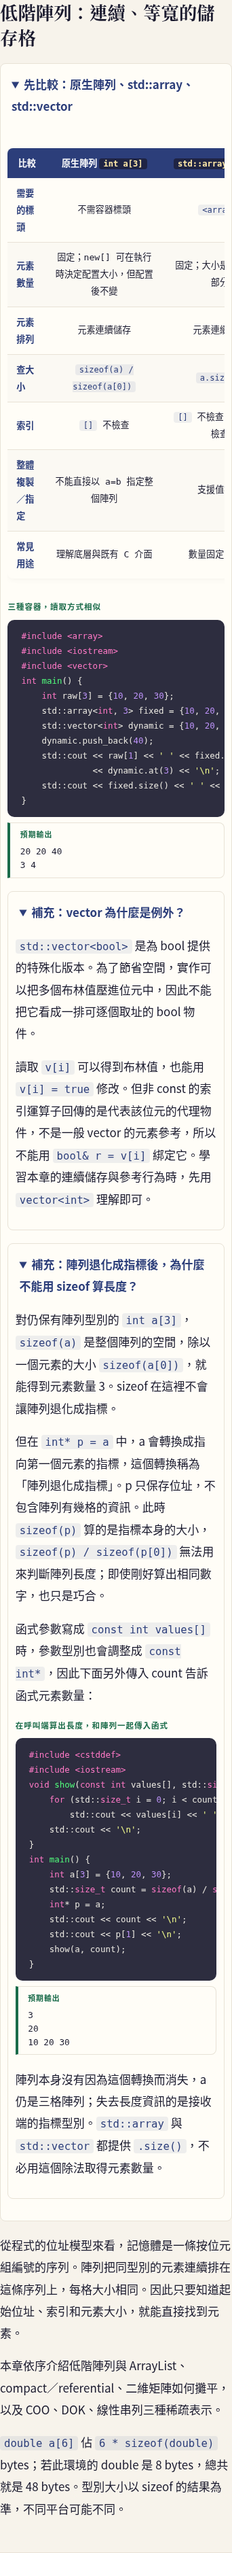
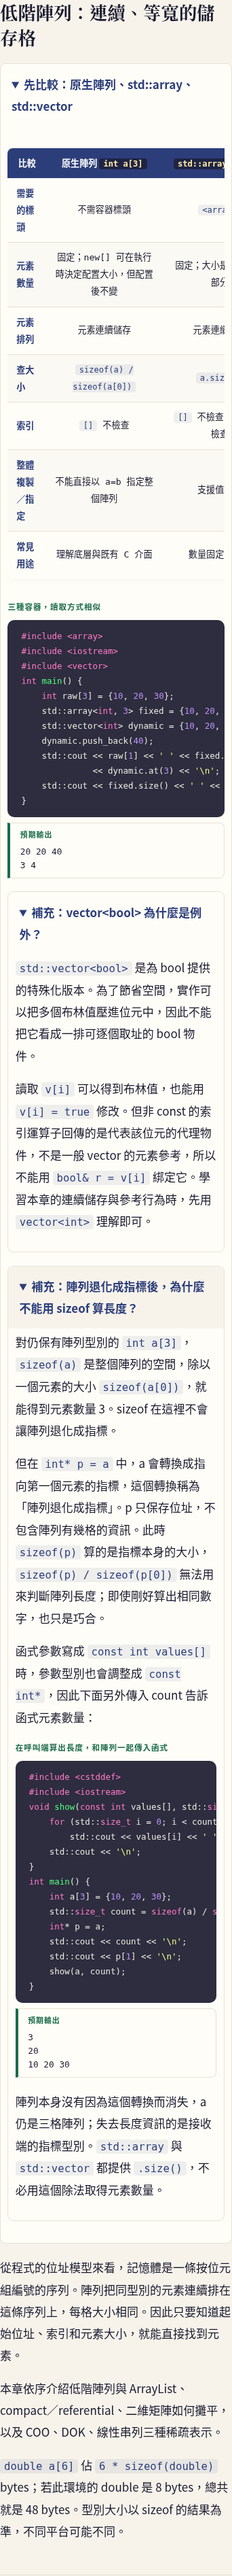
Render template brackets literally in collapsible titles

diff --git a/arrays.html b/arrays.html
@@ -545,7 +545,7 @@ footer{text-align:center;padding:2rem;font-size:.85rem;color:var(--muted);border
 <span class="line" data-l="11">    std::cout &lt;&lt; fixed.size() &lt;&lt; <span class="str">'</span><span class="str"> </span><span class="str">'</span> &lt;&lt; dynamic.size() &lt;&lt; <span class="str">'</span><span class="str">\n</span><span class="str">'</span>;</span>
 <span class="line" data-l="12">}</span></div><div class="expected-out"><span class="eo-tag">預期輸出</span><pre>20 20 40
 3 4
-</pre></div></div><details class="chapter-extra"><summary>補充：vector<bool> 為什麼是例外？</summary><div class="extra-body"><p><code>std::vector&lt;bool&gt;</code> 是為 bool 提供的特殊化版本。為了節省空間，實作可以把多個布林值壓進位元中，因此不能把它看成一排可逐個取址的 bool 物件。</p>
+</pre></div></div><details class="chapter-extra"><summary>補充：vector&lt;bool&gt; 為什麼是例外？</summary><div class="extra-body"><p><code>std::vector&lt;bool&gt;</code> 是為 bool 提供的特殊化版本。為了節省空間，實作可以把多個布林值壓進位元中，因此不能把它看成一排可逐個取址的 bool 物件。</p>
 <p>讀取 <code>v[i]</code> 可以得到布林值，也能用 <code>v[i] = true</code> 修改。但非 const 的索引運算子回傳的是代表該位元的代理物件，不是一般 vector 的元素參考，所以不能用 <code>bool&amp; r = v[i]</code> 綁定它。學習本章的連續儲存與參考行為時，先用 <code>vector&lt;int&gt;</code> 理解即可。</p></div></details><details class="chapter-extra"><summary>補充：陣列退化成指標後，為什麼不能用 sizeof 算長度？</summary><div class="extra-body"><p>對仍保有陣列型別的 <code>int a[3]</code>，<code>sizeof(a)</code> 是整個陣列的空間，除以一個元素的大小 <code>sizeof(a[0])</code>，就能得到元素數量 3。sizeof 在這裡不會讓陣列退化成指標。</p>
 <p>但在 <code>int* p = a</code> 中，a 會轉換成指向第一個元素的指標，這個轉換稱為「陣列退化成指標」。p 只保存位址，不包含陣列有幾格的資訊。此時 <code>sizeof(p)</code> 算的是指標本身的大小，<code>sizeof(p) / sizeof(p[0])</code> 無法用來判斷陣列長度；即使剛好算出相同數字，也只是巧合。</p>
 <p>函式參數寫成 <code>const int values[]</code> 時，參數型別也會調整成 <code>const int*</code>，因此下面另外傳入 count 告訴函式元素數量：</p><div class="deck-extra"><div class="dx-label">在呼叫端算出長度，和陣列一起傳入函式</div><div class="pseudo-code" data-cpp="run" data-expected="3&#10;20&#10;10 20 30 &#10;"><span class="line" data-l="1"><span class="kw">#</span><span class="kw">include</span> <span class="kw">&lt;cstddef&gt;</span></span>

diff --git a/tools/enrich/content/arrays_content.py b/tools/enrich/content/arrays_content.py
@@ -14,7 +14,7 @@ def code(title, src, output=None, kind='fragment'):
     return out + '</div>'
 
 def details(title, body):
-    return f'<details class="chapter-extra"><summary>{title}</summary><div class="extra-body">{body}</div></details>'
+    return f'<details class="chapter-extra"><summary>{escape(title)}</summary><div class="extra-body">{body}</div></details>'
 
 def table(head, rows):
     return '<div class="chapter-table"><table class="cmp-table"><thead><tr>' + ''.join('<th>'+x+'</th>' for x in head) + '</tr></thead><tbody>' + ''.join('<tr>'+''.join('<td>'+x+'</td>' for x in row)+'</tr>' for row in rows) + '</tbody></table></div>'
